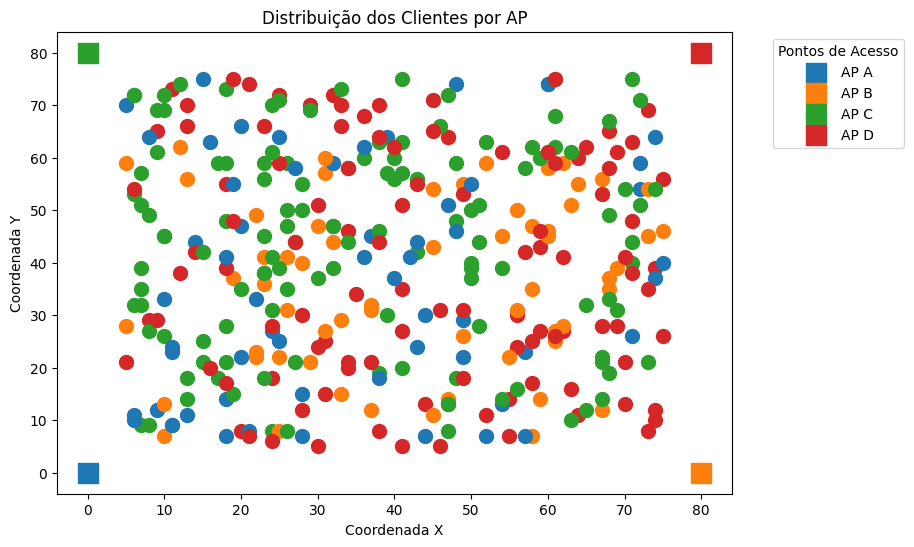
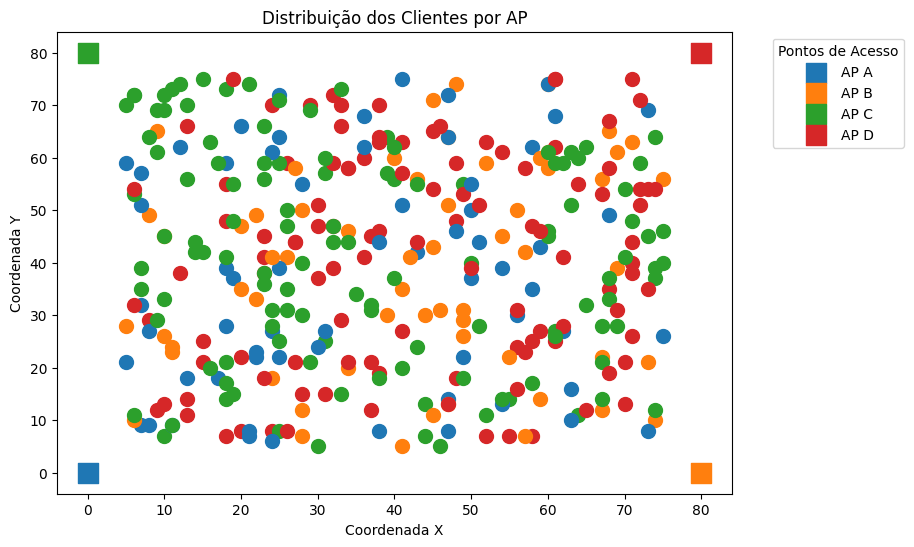
fix: corrige funcao gerar grafico

diff --git a/inteligencia_artificial/2_trabalho/graficos.py b/inteligencia_artificial/2_trabalho/graficos.py
@@ -1,13 +1,13 @@
 import os
 import matplotlib.pyplot as plt
 
-def gerar_grafico(aps, clientes, solucao, nome_arquivo="grafico.png", pasta_destino="graficos"):
-    # Verificar se a pasta existe, se não, criar
-    if not os.path.exists(pasta_destino):
-        os.makedirs(pasta_destino)
-
-    # Construir o caminho completo do arquivo
-    caminho_arquivo = os.path.join(pasta_destino, nome_arquivo)
+def gerar_grafico(aps, clientes, solucao, nome_arquivo="grafico.png", nome_pasta="./graficos"):
+    # Garantir que a pasta exista
+    if not os.path.exists(nome_pasta):
+        os.makedirs(nome_pasta)  # Cria a pasta caso não exista
+    
+    # Criar o caminho completo para o arquivo
+    caminho_arquivo = os.path.join(nome_pasta, nome_arquivo)
     
     # Criar um dicionário de cores para cada AP
     cores = {
@@ -21,10 +21,13 @@ def gerar_grafico(aps, clientes, solucao, nome_arquivo="grafico.png", pasta_dest
     # Plotar clientes com cores baseadas nos APs
     for i, cliente in enumerate(clientes):
         ap = next((ap for ap in aps if ap.nome == solucao[i]), None)
-        cor_ap = cores[ap.nome]  
-        # Plotando os clientes com a cor do AP correspondente
-        plt.scatter(cliente.pos[0], cliente.pos[1], color=cor_ap, s=100)
-
+        
+        if ap is not None:
+            cor_ap = cores[ap.nome] 
+            plt.scatter(cliente.pos[0], cliente.pos[1], color=cor_ap, s=100)
+        else:
+            print(f"AVISO: AP não encontrado para o cliente {i+1} ({cliente.pos[0]}, {cliente.pos[1]})")
+    
     # Plotar os APs como quadrados, usando suas cores
     for ap in aps:
         cor_ap = cores[ap.nome]  # Cor do AP
@@ -41,10 +44,7 @@ def gerar_grafico(aps, clientes, solucao, nome_arquivo="grafico.png", pasta_dest
     # Ajuste manual dos margens se necessário
     plt.subplots_adjust(right=0.8)  # Ajuste para garantir que a legenda não sobreponha
 
-    # Salvar o gráfico no arquivo no caminho especificado
+    # Salvar o gráfico no arquivo
     plt.savefig(caminho_arquivo, bbox_inches='tight')  # Salvando o gráfico no arquivo
 
     print(f"Gráfico salvo em {caminho_arquivo}")
-
-# Exemplo de uso:
-# gerar_grafico(aps, clientes, solucao, pasta_destino="graficos/resultado", nome_arquivo="grafico_clientes.png")

diff --git a/inteligencia_artificial/2_trabalho/utils.py b/inteligencia_artificial/2_trabalho/utils.py
@@ -60,13 +60,21 @@ def calcular_distancia_media(solucao, aps, clientes):
     # Retorna a distância média
     return sum(distancias) / len(distancias) if distancias else 0
 
-def selecao_torneio(populacao, fitness, ):
+def selecao_torneio(populacao, fitness, tamanho_torneio=None):
     pais = []
-    tamanho_torneio= len(populacao) // 2 
+    
+    if tamanho_torneio is None:
+        tamanho_torneio = len(populacao) // 6
+    
     for _ in range(2):  # Selecionar dois pais
         torneio = random.sample(range(len(populacao)), tamanho_torneio)  # Seleção de um torneio de tamanho_torneio
-        melhores = [torneio[i] for i in sorted(range(tamanho_torneio), key=lambda i: fitness[torneio[i]], reverse=True)]
-        pais.append(populacao[melhores[0]])  # Seleciona o melhor indivíduo
+        
+        # Ordenar os índices do torneio baseado no fitness e pegar os melhores
+        melhores = sorted(torneio, key=lambda i: fitness[i], reverse=True)
+        
+        # Adicionar o melhor indivíduo ao pool de pais
+        pais.append(populacao[melhores[0]])  
+    
     return pais
 
 # Crossover: Cruzamento de dois pais
@@ -82,7 +90,7 @@ def mutacao(individuo, aps, taxa_mutacao=0.1):
         if random.random() < taxa_mutacao:  # Se o valor aleatório for menor que a taxa de mutação
             ap_atual = individuo[i]  # O AP atual do cliente
             ap_novo = random.choice([ap for ap in aps if ap.nome != ap_atual])  # Escolhe um AP diferente
-            individuo[i] = ap_novo  # Atribui o novo AP
+            individuo[i] = ap_novo.nome  # Atribui o novo AP
     return individuo
 
 

diff --git a/inteligencia_artificial/2_trabalho/main.py b/inteligencia_artificial/2_trabalho/main.py
@@ -33,7 +33,7 @@ def algoritmo_genetico(aps, clientes, geracoes=100, taxa_mutacao=0.1):
         # Exibir informações a cada geração
         melhor_fitness = max(fitness)
         melhor_individuo = populacao[fitness.index(melhor_fitness)]
-        #gerar_grafico(aps, clientes, melhor_individuo, 'melhordageracao_' + str(geracao))
+        gerar_grafico(aps, clientes, melhor_individuo, 'melhordageracao_' + str(geracao))
         print(f"Geração {geracao + 1}: \n fitness: {melhor_fitness} \n Distancia media: {calcular_distancia_media(melhor_individuo,aps, clientes)}")
       
     
